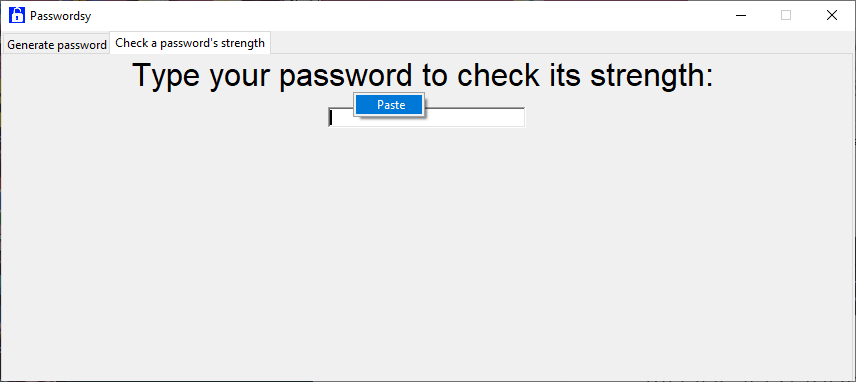
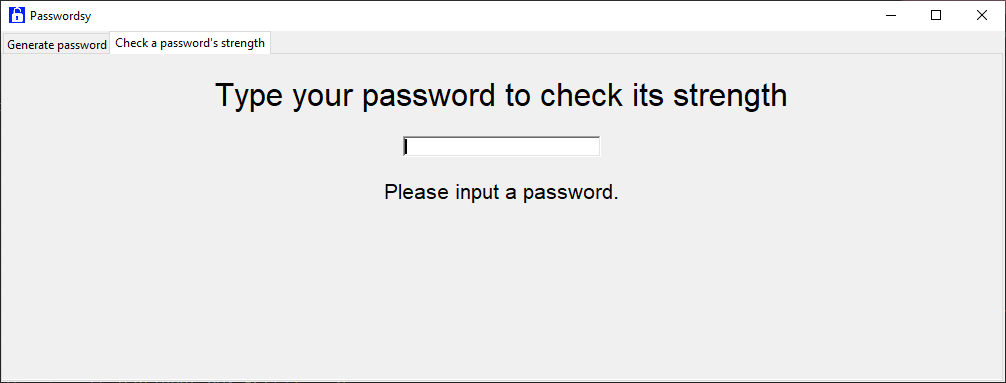
New screenshots, centered please input a password

diff --git a/code/password_strength.py b/code/password_strength.py
@@ -251,7 +251,7 @@ def check_password_strength(event):
 
     if len(input_box.get()) == 0:
         first_label.configure(text = 'Please input a password.')
-        first_label.grid(column = 0, row = 3, sticky = 'w')
+        first_label.grid(column = 0, row = 3, sticky = 'n')
     else:
         check_if_password_is_common()   
         check_password_length()    
